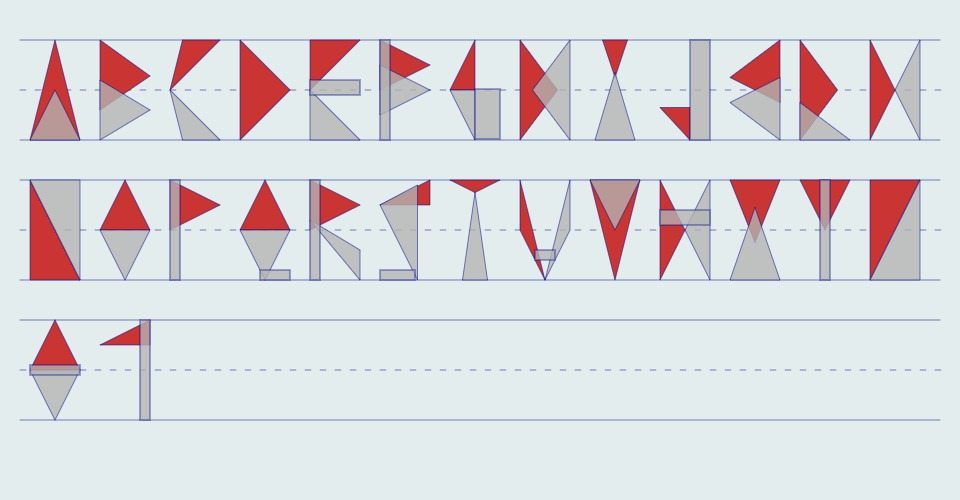
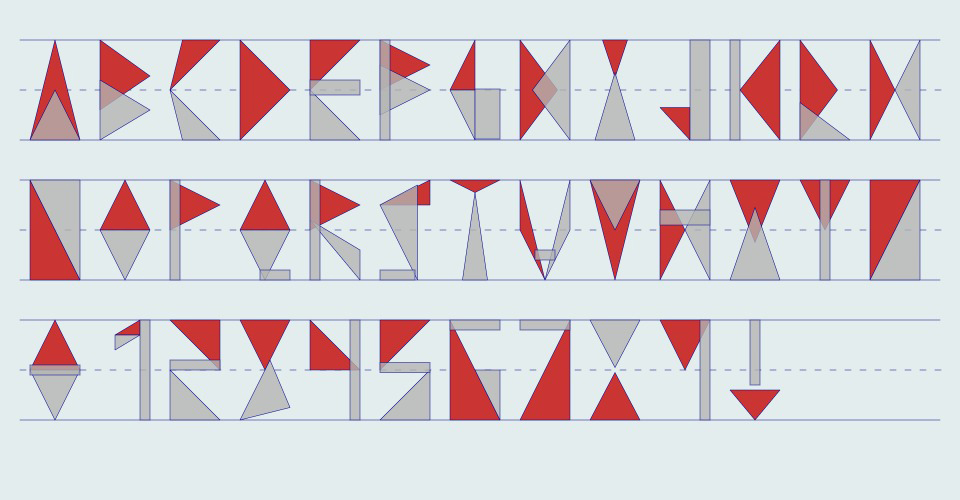
Simple alphabet created
Finished basic alphabet

diff --git a/letters.js b/letters.js
@@ -1,4 +1,24 @@
 const alphabet = {
+  "default": {
+    "triangleXPos1": 0,
+    "triangleYPos1": 140,
+    "triangleXPos2": 50,
+    "triangleYPos2": 200,
+    "triangleXPos3": 100,
+    "triangleYPos3": 140,
+
+    "triangleXPos4": 0,
+    "triangleYPos4": 0,
+    "triangleXPos5": 0,
+    "triangleYPos5": 0,
+    "triangleXPos6": 0,
+    "triangleYPos6": 0,
+
+    "rectXPos": 40,
+    "rectYPos": 0,
+    "rectWPos": 20,
+    "rectHPos": 130,  
+  },
 
   "A": {
     "triangleXPos1": 0,
@@ -217,22 +237,22 @@ const alphabet = {
   "K": {
     "triangleXPos1": 100,
     "triangleYPos1": 0,
-    "triangleXPos2": 0,
-    "triangleYPos2": 75,
+    "triangleXPos2": 20,
+    "triangleYPos2": 100,
     "triangleXPos3": 100,
-    "triangleYPos3": 125,
+    "triangleYPos3": 200,
 
-    "triangleXPos4": 100,
-    "triangleYPos4": 75,
+    "triangleXPos4": 0,
+    "triangleYPos4": 0,
     "triangleXPos5": 0,
-    "triangleYPos5": 125,
-    "triangleXPos6": 100,
-    "triangleYPos6": 200,
+    "triangleYPos5": 0,
+    "triangleXPos6": 0,
+    "triangleYPos6": 0,
 
     "rectXPos": 0,
     "rectYPos": 0,
-    "rectWPos": 0,
-    "rectHPos": 0,  
+    "rectWPos": 20,
+    "rectHPos": 200,  
   },
   
   "L": {
@@ -557,13 +577,74 @@ const alphabet = {
     "rectWPos": 100,
     "rectHPos": 20, 
   },
+
   "1": {
+    "triangleXPos1": 80,
+    "triangleYPos1": 0,
+    "triangleXPos2": 30,
+    "triangleYPos2": 30,
+    "triangleXPos3": 80,
+    "triangleYPos3": 30,
+
+    "triangleXPos4": 30,
+    "triangleYPos4": 30,
+    "triangleXPos5": 30,
+    "triangleYPos5": 60,
+    "triangleXPos6": 80,
+    "triangleYPos6": 30,
+
+    "rectXPos": 80,
+    "rectYPos": 0,
+    "rectWPos": 20,
+    "rectHPos": 200, 
+  },
+  "2": {
     "triangleXPos1": 100,
     "triangleYPos1": 0,
     "triangleXPos2": 0,
-    "triangleYPos2": 50,
+    "triangleYPos2": 0,
     "triangleXPos3": 100,
-    "triangleYPos3": 50,
+    "triangleYPos3": 100,
+
+    "triangleXPos4": 0,
+    "triangleYPos4": 100,
+    "triangleXPos5": 0,
+    "triangleYPos5": 200,
+    "triangleXPos6": 100,
+    "triangleYPos6": 200,
+
+    "rectXPos": 0,
+    "rectYPos": 80,
+    "rectWPos": 100,
+    "rectHPos": 20, 
+  },
+  "3": {
+    "triangleXPos1": 0,
+    "triangleYPos1": 0,
+    "triangleXPos2": 100,
+    "triangleYPos2": 0,
+    "triangleXPos3": 50,
+    "triangleYPos3": 100,
+
+    "triangleXPos4": 60,
+    "triangleYPos4": 80,
+    "triangleXPos5": 100,
+    "triangleYPos5": 175,
+    "triangleXPos6": 0,
+    "triangleYPos6": 200,
+
+    "rectXPos": 0,
+    "rectYPos": 0,
+    "rectWPos": 0,
+    "rectHPos": 0, 
+  },
+  "4": {
+    "triangleXPos1": 0,
+    "triangleYPos1": 0,
+    "triangleXPos2": 0,
+    "triangleYPos2": 100,
+    "triangleXPos3": 100,
+    "triangleYPos3": 100,
 
     "triangleXPos4": 0,
     "triangleYPos4": 0,
@@ -577,45 +658,126 @@ const alphabet = {
     "rectWPos": 20,
     "rectHPos": 200, 
   },
-  "2": {
-    "size": 40,
-    "offsetx": 0,
-    "offsety": 17
-  },
-  "3": {
-    "size": 40,
-    "offsetx": 0,
-    "offsety": 17
-  },
-  "4": {
-    "size": 40,
-    "offsetx": 0,
-    "offsety": 17
-  },
   "5": {
-    "size": 40,
-    "offsetx": 0,
-    "offsety": 17
+    "triangleXPos1": 0,
+    "triangleYPos1": 0,
+    "triangleXPos2": 100,
+    "triangleYPos2": 0,
+    "triangleXPos3": 0,
+    "triangleYPos3": 100,
+
+    "triangleXPos4": 100,
+    "triangleYPos4": 100,
+    "triangleXPos5": 100,
+    "triangleYPos5": 200,
+    "triangleXPos6": 0,
+    "triangleYPos6": 200,
+
+    "rectXPos": 0,
+    "rectYPos": 85,
+    "rectWPos": 100,
+    "rectHPos": 20, 
   },
+
   "6": {
-    "size": 40,
-    "offsetx": 0,
-    "offsety": 17
+    "triangleXPos1": 0,
+    "triangleYPos1": 0,
+    "triangleXPos2": 0,
+    "triangleYPos2": 200,
+    "triangleXPos3": 100,
+    "triangleYPos3": 200,
+
+    "triangleXPos4": 100,
+    "triangleYPos4": 200,
+    "triangleXPos5": 100,
+    "triangleYPos5": 100,
+    "triangleXPos6": 50,
+    "triangleYPos6": 100,
+
+    "rectXPos": 0,
+    "rectYPos": 0,
+    "rectWPos": 100,
+    "rectHPos": 20, 
   },
   "7": {
-    "size": 40,
-    "offsetx": 0,
-    "offsety": 17
+    "triangleXPos1": 100,
+    "triangleYPos1": 0,
+    "triangleXPos2": 0,
+    "triangleYPos2": 200,
+    "triangleXPos3": 100,
+    "triangleYPos3": 200,
+
+    "triangleXPos4": 0,
+    "triangleYPos4": 0,
+    "triangleXPos5": 0,
+    "triangleYPos5": 0,
+    "triangleXPos6": 0,
+    "triangleYPos6": 0,
+
+    "rectXPos": 0,
+    "rectYPos": 0,
+    "rectWPos": 100,
+    "rectHPos": 20, 
   },
   "8": {
-    "size": 40,
-    "offsetx": 0,
-    "offsety": 17
+    "triangleXPos1": 50,
+    "triangleYPos1": 105,
+    "triangleXPos2": 0,
+    "triangleYPos2": 200,
+    "triangleXPos3": 100,
+    "triangleYPos3": 200,
+
+    "triangleXPos4": 50,
+    "triangleYPos4": 95,
+    "triangleXPos5": 0,
+    "triangleYPos5": 0,
+    "triangleXPos6": 100,
+    "triangleYPos6": 0,
+
+    "rectXPos": 0,
+    "rectYPos": 0,
+    "rectWPos": 0,
+    "rectHPos": 0,  
   },
   "9": {
-    "size": 40,
-    "offsetx": 0,
-    "offsety": 17
+    "triangleXPos1": 100,
+    "triangleYPos1": 0,
+    "triangleXPos2": 0,
+    "triangleYPos2": 0,
+    "triangleXPos3": 50,
+    "triangleYPos3": 100,
+
+    "triangleXPos4": 0,
+    "triangleYPos4": 0,
+    "triangleXPos5": 0,
+    "triangleYPos5": 0,
+    "triangleXPos6": 0,
+    "triangleYPos6": 0,
+
+    "rectXPos": 80,
+    "rectYPos": 0,
+    "rectWPos": 20,
+    "rectHPos": 200,  
+  },
+  "!": {
+    "triangleXPos1": 100,
+    "triangleYPos1": 0,
+    "triangleXPos2": 0,
+    "triangleYPos2": 0,
+    "triangleXPos3": 50,
+    "triangleYPos3": 100,
+
+    "triangleXPos4": 0,
+    "triangleYPos4": 0,
+    "triangleXPos5": 0,
+    "triangleYPos5": 0,
+    "triangleXPos6": 0,
+    "triangleYPos6": 0,
+
+    "rectXPos": 80,
+    "rectYPos": 0,
+    "rectWPos": 20,
+    "rectHPos": 200,  
   }
 
 }

diff --git a/README.md b/README.md
@@ -12,6 +12,8 @@ Tuesday 12/05/20: After thinking about my original design, I thought it was quit
 
 Wednesday 13/05/20: I've finished creating the alphabet and two of the numbers, my next steps are to finish the numbers and work on the interaction and interpolation code. I definetly struggled with creating the U as I couldn't really think of any creative design for it. The 0 also could use some thought as it looks like quite similar with the o. Other than this, I'm quite happy with my work. My next steps are to finish the numbers and start on the interaction aspect of this problem set. 
 
+Thursday 14/05/20: Finished making basic alphabet. Next steps are to modify the letters which look a bit odd (G,N,Z,3,9). Quite happy with where I'm at right now. Once i've adjusted the alphabet, my next steps is to create the interlopation function with my paramaters.     
+
 Currently using 16 parameters:
   * `triangleX1` : first x point of 1st triangle
   * `triangleY1` : first y point of 1st triangle
